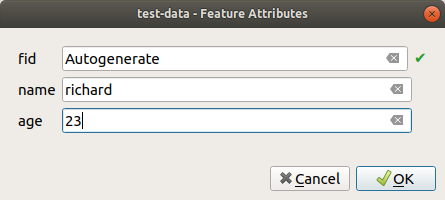
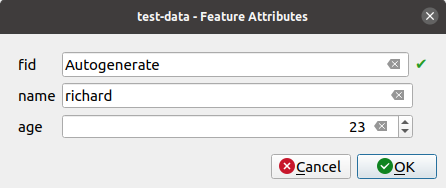
Issue #6177 changed type and modified screenshots
Changes for Issus #6177
 - changed type of age too integer
 - modified two screenshots, so that they fit the new type

diff --git a/docs/training_manual/create_vector_data/forms.rst b/docs/training_manual/create_vector_data/forms.rst
@@ -118,7 +118,7 @@ You can also design your own custom form completely from scratch.
    attributes:
 
    * name (text)
-   * age (text)
+   * age (integer)
 
    .. figure:: img/new_point_layer.png
       :align: center
@@ -162,9 +162,9 @@ the person who creates the forms).
    .. figure:: img/qt_line_edit.png
       :align: center
 
-#. Set its name to ``Name``.
-#. Using the same approach, create a new spinbox and set its name to
-   ``Age``.
+#. Set its name to ``name``.
+#. Using the same approach, create another :guilabel:`Line Edit` and set its name to
+   ``age``.
 #. Add a :guilabel:`Label` with the text ``Add a New Person`` in a
    bold font (look in the object *properties* to find out how to set
    this).
